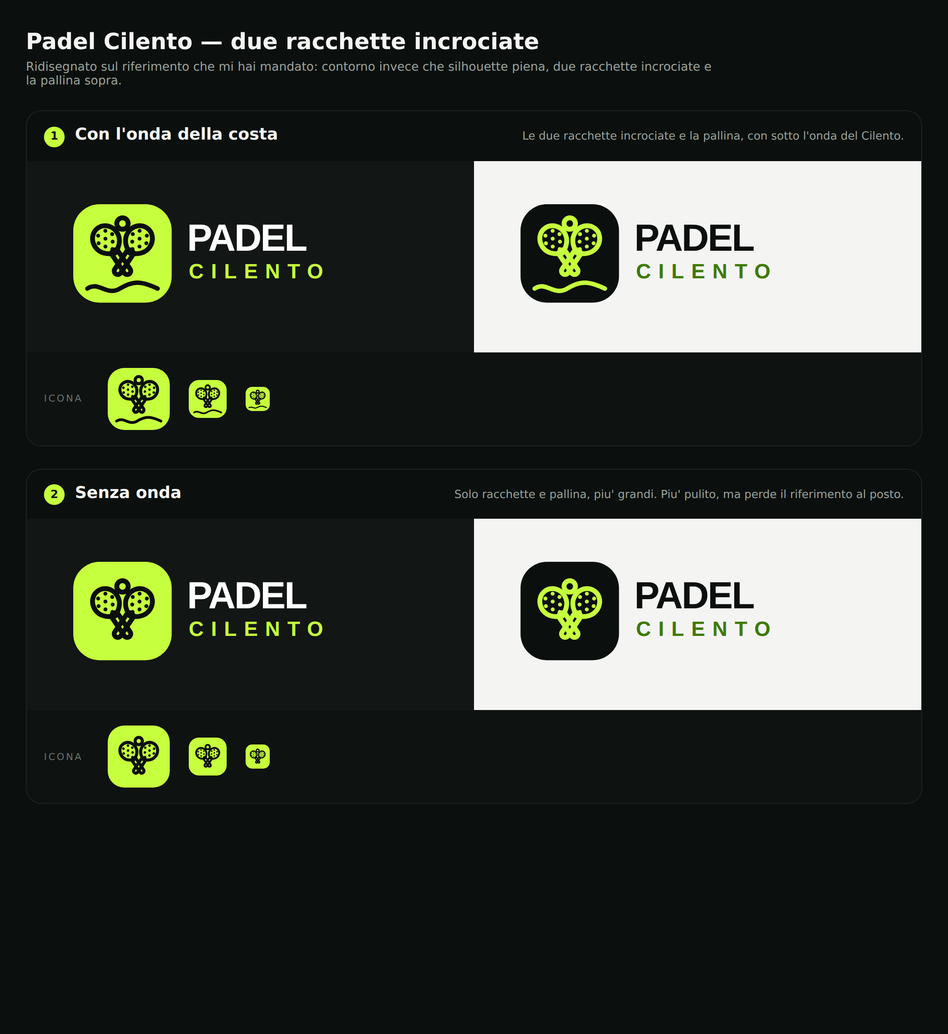
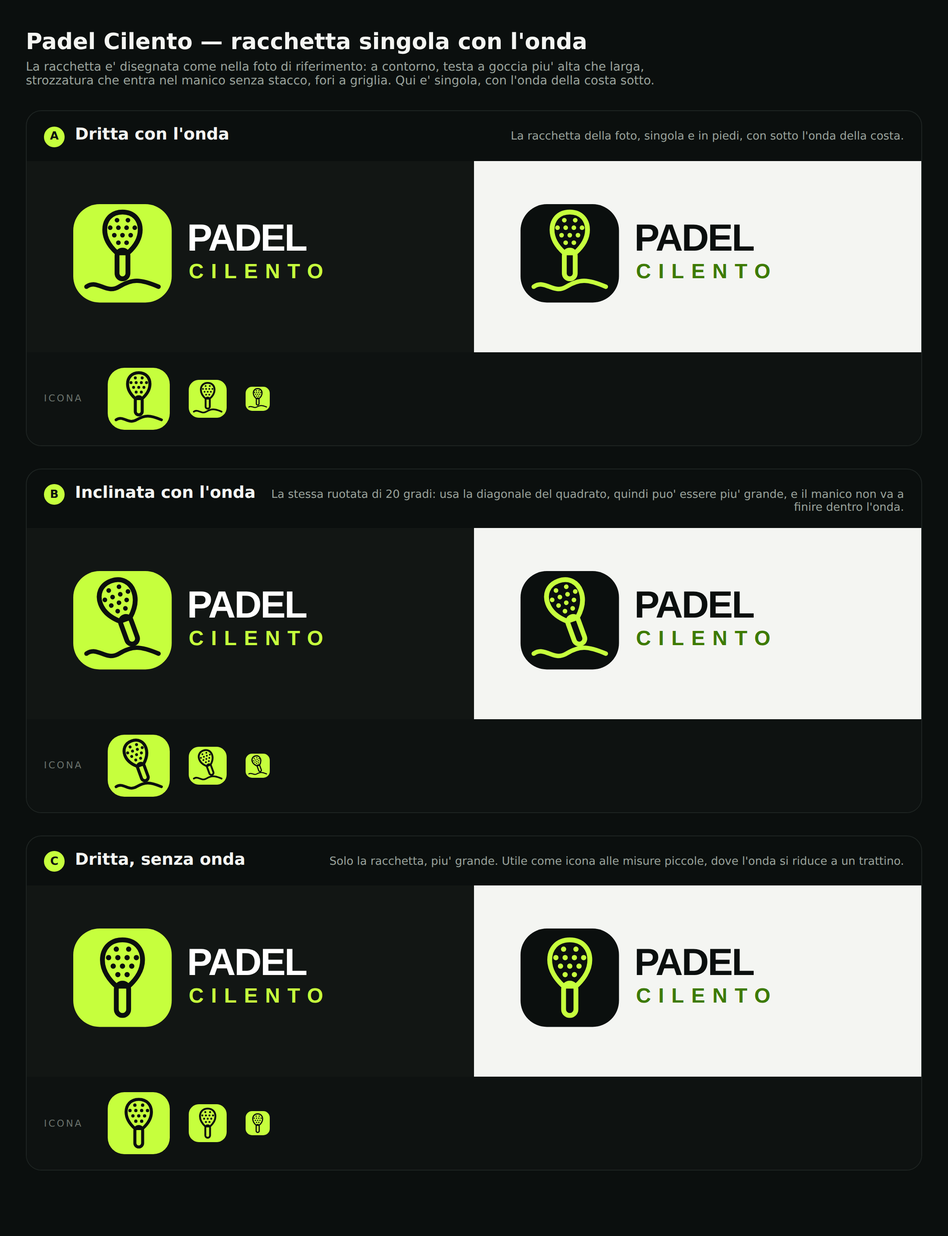
Racchetta singola con l'onda, profilo sul riferimento
Testa a goccia piu' alta che larga con la strozzatura che entra nel manico
senza stacco: con la testa tonda il segno si leggeva come una lente
d'ingrandimento. Tre inquadrature a confronto, in grande e a 72/44/28px.

diff --git a/public/marchio/racchetta.html b/public/marchio/racchetta.html
@@ -25,59 +25,85 @@
   .piccoli span { color: #6B736D; font-size: 11px; letter-spacing: 2px; text-transform: uppercase; width: 52px; }
 </style>
 
-<h1>Padel Cilento — due racchette incrociate</h1>
+<h1>Padel Cilento — racchetta singola con l'onda</h1>
 <p class="intro">
-  Ridisegnato sul riferimento che mi hai mandato: contorno invece che silhouette piena,
-  due racchette incrociate e la pallina sopra.
+  La racchetta e' disegnata come nella foto di riferimento: a contorno, testa a goccia piu' alta che
+  larga, strozzatura che entra nel manico senza stacco, fori a griglia. Qui e' singola,
+  con l'onda della costa sotto.
 </p>
 
 <div class="blocco">
   <div class="testa">
-    <span class="n">1</span>
-    <h2>Con l'onda della costa</h2>
-    <p>Le due racchette incrociate e la pallina, con sotto l'onda del Cilento.</p>
+    <span class="n">A</span>
+    <h2>Dritta con l'onda</h2>
+    <p>La racchetta della foto, singola e in piedi, con sotto l'onda della costa.</p>
   </div>
   <div class="griglia">
     <div class="cella scuro"><svg width="440" height="150" viewBox="0 0 440 150" fill="none">
-        <g transform="translate(14,14) scale(1.02)"><rect width="112" height="112" rx="30" fill="#C6FF3D"/><g transform="translate(56,68) scale(0.62)"><g transform="rotate(-34)"><path d="M0 -80 C14 -80, 24 -68, 24 -54 C24 -40, 14 -30, 0 -24 C-14 -30, -24 -40, -24 -54 C-24 -68, -14 -80, 0 -80 Z" fill="none" stroke="#0B0F0E" stroke-width="8.870967741935484" stroke-linejoin="round"/><rect x="-6.5" y="-30" width="13" height="52" rx="6.5" fill="none" stroke="#0B0F0E" stroke-width="8.870967741935484"/><circle cx="-8" cy="-68" r="3.6" fill="#0B0F0E"/><circle cx="8" cy="-68" r="3.6" fill="#0B0F0E"/><circle cx="-15" cy="-56" r="3.6" fill="#0B0F0E"/><circle cx="0" cy="-56" r="3.6" fill="#0B0F0E"/><circle cx="15" cy="-56" r="3.6" fill="#0B0F0E"/><circle cx="-8" cy="-44" r="3.6" fill="#0B0F0E"/><circle cx="8" cy="-44" r="3.6" fill="#0B0F0E"/><circle cx="0" cy="-33" r="3.6" fill="#0B0F0E"/></g><g transform="rotate(34)"><path d="M0 -80 C14 -80, 24 -68, 24 -54 C24 -40, 14 -30, 0 -24 C-14 -30, -24 -40, -24 -54 C-24 -68, -14 -80, 0 -80 Z" fill="none" stroke="#0B0F0E" stroke-width="8.870967741935484" stroke-linejoin="round"/><rect x="-6.5" y="-30" width="13" height="52" rx="6.5" fill="none" stroke="#0B0F0E" stroke-width="8.870967741935484"/><circle cx="-8" cy="-68" r="3.6" fill="#0B0F0E"/><circle cx="8" cy="-68" r="3.6" fill="#0B0F0E"/><circle cx="-15" cy="-56" r="3.6" fill="#0B0F0E"/><circle cx="0" cy="-56" r="3.6" fill="#0B0F0E"/><circle cx="15" cy="-56" r="3.6" fill="#0B0F0E"/><circle cx="-8" cy="-44" r="3.6" fill="#0B0F0E"/><circle cx="8" cy="-44" r="3.6" fill="#0B0F0E"/><circle cx="0" cy="-33" r="3.6" fill="#0B0F0E"/></g></g><circle cx="56" cy="22" r="6.5" fill="none" stroke="#0B0F0E" stroke-width="5.5"/><path d="M16 96 C29 87, 38 105, 53 96 S77 87, 96 96" stroke="#0B0F0E" stroke-width="5" stroke-linecap="round" fill="none"/></g>
+        <g transform="translate(14,14) scale(1.02)"><rect width="112" height="112" rx="30" fill="#C6FF3D"/><g transform="translate(56.00,71.04) scale(0.776)"><path d="M0 -80 C17 -80, 26 -68, 26 -54 C26 -40, 17 -28, 8 -20 L-8 -20 C-17 -28, -26 -40, -26 -54 C-26 -68, -17 -80, 0 -80 Z" fill="none" stroke="#0B0F0E" stroke-width="7.092105263157895" stroke-linejoin="round"/><rect x="-8" y="-24" width="16" height="42" rx="8" fill="none" stroke="#0B0F0E" stroke-width="7.092105263157895"/><circle cx="-8" cy="-68" r="3.4" fill="#0B0F0E"/><circle cx="8" cy="-68" r="3.4" fill="#0B0F0E"/><circle cx="-18" cy="-57" r="3.4" fill="#0B0F0E"/><circle cx="-6" cy="-57" r="3.4" fill="#0B0F0E"/><circle cx="6" cy="-57" r="3.4" fill="#0B0F0E"/><circle cx="18" cy="-57" r="3.4" fill="#0B0F0E"/><circle cx="-12" cy="-46" r="3.4" fill="#0B0F0E"/><circle cx="0" cy="-46" r="3.4" fill="#0B0F0E"/><circle cx="12" cy="-46" r="3.4" fill="#0B0F0E"/><circle cx="-6" cy="-35" r="3.4" fill="#0B0F0E"/><circle cx="6" cy="-35" r="3.4" fill="#0B0F0E"/></g><path d="M15 94 C28 85, 37 103, 52 94 S76 85, 97 94" stroke="#0B0F0E" stroke-width="5" stroke-linecap="round" fill="none"/></g>
         <text x="146" y="68" font-family="Space Grotesk,sans-serif" font-size="44" font-weight="700"
               letter-spacing="-1.5" fill="#fff">PADEL</text>
         <text x="148" y="100" font-family="Space Grotesk,sans-serif" font-size="24" font-weight="600"
               letter-spacing="8.5" fill="#C6FF3D">CILENTO</text>
       </svg></div>
     <div class="cella chiaro"><svg width="440" height="150" viewBox="0 0 440 150" fill="none">
-        <g transform="translate(14,14) scale(1.02)"><rect width="112" height="112" rx="30" fill="#0B0F0E"/><g transform="translate(56,68) scale(0.62)"><g transform="rotate(-34)"><path d="M0 -80 C14 -80, 24 -68, 24 -54 C24 -40, 14 -30, 0 -24 C-14 -30, -24 -40, -24 -54 C-24 -68, -14 -80, 0 -80 Z" fill="none" stroke="#C6FF3D" stroke-width="8.870967741935484" stroke-linejoin="round"/><rect x="-6.5" y="-30" width="13" height="52" rx="6.5" fill="none" stroke="#C6FF3D" stroke-width="8.870967741935484"/><circle cx="-8" cy="-68" r="3.6" fill="#C6FF3D"/><circle cx="8" cy="-68" r="3.6" fill="#C6FF3D"/><circle cx="-15" cy="-56" r="3.6" fill="#C6FF3D"/><circle cx="0" cy="-56" r="3.6" fill="#C6FF3D"/><circle cx="15" cy="-56" r="3.6" fill="#C6FF3D"/><circle cx="-8" cy="-44" r="3.6" fill="#C6FF3D"/><circle cx="8" cy="-44" r="3.6" fill="#C6FF3D"/><circle cx="0" cy="-33" r="3.6" fill="#C6FF3D"/></g><g transform="rotate(34)"><path d="M0 -80 C14 -80, 24 -68, 24 -54 C24 -40, 14 -30, 0 -24 C-14 -30, -24 -40, -24 -54 C-24 -68, -14 -80, 0 -80 Z" fill="none" stroke="#C6FF3D" stroke-width="8.870967741935484" stroke-linejoin="round"/><rect x="-6.5" y="-30" width="13" height="52" rx="6.5" fill="none" stroke="#C6FF3D" stroke-width="8.870967741935484"/><circle cx="-8" cy="-68" r="3.6" fill="#C6FF3D"/><circle cx="8" cy="-68" r="3.6" fill="#C6FF3D"/><circle cx="-15" cy="-56" r="3.6" fill="#C6FF3D"/><circle cx="0" cy="-56" r="3.6" fill="#C6FF3D"/><circle cx="15" cy="-56" r="3.6" fill="#C6FF3D"/><circle cx="-8" cy="-44" r="3.6" fill="#C6FF3D"/><circle cx="8" cy="-44" r="3.6" fill="#C6FF3D"/><circle cx="0" cy="-33" r="3.6" fill="#C6FF3D"/></g></g><circle cx="56" cy="22" r="6.5" fill="none" stroke="#C6FF3D" stroke-width="5.5"/><path d="M16 96 C29 87, 38 105, 53 96 S77 87, 96 96" stroke="#C6FF3D" stroke-width="5" stroke-linecap="round" fill="none"/></g>
+        <g transform="translate(14,14) scale(1.02)"><rect width="112" height="112" rx="30" fill="#0B0F0E"/><g transform="translate(56.00,71.04) scale(0.776)"><path d="M0 -80 C17 -80, 26 -68, 26 -54 C26 -40, 17 -28, 8 -20 L-8 -20 C-17 -28, -26 -40, -26 -54 C-26 -68, -17 -80, 0 -80 Z" fill="none" stroke="#C6FF3D" stroke-width="7.092105263157895" stroke-linejoin="round"/><rect x="-8" y="-24" width="16" height="42" rx="8" fill="none" stroke="#C6FF3D" stroke-width="7.092105263157895"/><circle cx="-8" cy="-68" r="3.4" fill="#C6FF3D"/><circle cx="8" cy="-68" r="3.4" fill="#C6FF3D"/><circle cx="-18" cy="-57" r="3.4" fill="#C6FF3D"/><circle cx="-6" cy="-57" r="3.4" fill="#C6FF3D"/><circle cx="6" cy="-57" r="3.4" fill="#C6FF3D"/><circle cx="18" cy="-57" r="3.4" fill="#C6FF3D"/><circle cx="-12" cy="-46" r="3.4" fill="#C6FF3D"/><circle cx="0" cy="-46" r="3.4" fill="#C6FF3D"/><circle cx="12" cy="-46" r="3.4" fill="#C6FF3D"/><circle cx="-6" cy="-35" r="3.4" fill="#C6FF3D"/><circle cx="6" cy="-35" r="3.4" fill="#C6FF3D"/></g><path d="M15 94 C28 85, 37 103, 52 94 S76 85, 97 94" stroke="#C6FF3D" stroke-width="5" stroke-linecap="round" fill="none"/></g>
         <text x="146" y="68" font-family="Space Grotesk,sans-serif" font-size="44" font-weight="700"
               letter-spacing="-1.5" fill="#0B0F0E">PADEL</text>
         <text x="148" y="100" font-family="Space Grotesk,sans-serif" font-size="24" font-weight="600"
               letter-spacing="8.5" fill="#3D7A00">CILENTO</text>
       </svg></div>
   </div>
-  <div class="piccoli"><span>icona</span><svg width="72" height="72" viewBox="0 0 112 112"><rect width="112" height="112" rx="30" fill="#C6FF3D"/><g transform="translate(56,68) scale(0.62)"><g transform="rotate(-34)"><path d="M0 -80 C14 -80, 24 -68, 24 -54 C24 -40, 14 -30, 0 -24 C-14 -30, -24 -40, -24 -54 C-24 -68, -14 -80, 0 -80 Z" fill="none" stroke="#0B0F0E" stroke-width="8.870967741935484" stroke-linejoin="round"/><rect x="-6.5" y="-30" width="13" height="52" rx="6.5" fill="none" stroke="#0B0F0E" stroke-width="8.870967741935484"/><circle cx="-8" cy="-68" r="3.6" fill="#0B0F0E"/><circle cx="8" cy="-68" r="3.6" fill="#0B0F0E"/><circle cx="-15" cy="-56" r="3.6" fill="#0B0F0E"/><circle cx="0" cy="-56" r="3.6" fill="#0B0F0E"/><circle cx="15" cy="-56" r="3.6" fill="#0B0F0E"/><circle cx="-8" cy="-44" r="3.6" fill="#0B0F0E"/><circle cx="8" cy="-44" r="3.6" fill="#0B0F0E"/><circle cx="0" cy="-33" r="3.6" fill="#0B0F0E"/></g><g transform="rotate(34)"><path d="M0 -80 C14 -80, 24 -68, 24 -54 C24 -40, 14 -30, 0 -24 C-14 -30, -24 -40, -24 -54 C-24 -68, -14 -80, 0 -80 Z" fill="none" stroke="#0B0F0E" stroke-width="8.870967741935484" stroke-linejoin="round"/><rect x="-6.5" y="-30" width="13" height="52" rx="6.5" fill="none" stroke="#0B0F0E" stroke-width="8.870967741935484"/><circle cx="-8" cy="-68" r="3.6" fill="#0B0F0E"/><circle cx="8" cy="-68" r="3.6" fill="#0B0F0E"/><circle cx="-15" cy="-56" r="3.6" fill="#0B0F0E"/><circle cx="0" cy="-56" r="3.6" fill="#0B0F0E"/><circle cx="15" cy="-56" r="3.6" fill="#0B0F0E"/><circle cx="-8" cy="-44" r="3.6" fill="#0B0F0E"/><circle cx="8" cy="-44" r="3.6" fill="#0B0F0E"/><circle cx="0" cy="-33" r="3.6" fill="#0B0F0E"/></g></g><circle cx="56" cy="22" r="6.5" fill="none" stroke="#0B0F0E" stroke-width="5.5"/><path d="M16 96 C29 87, 38 105, 53 96 S77 87, 96 96" stroke="#0B0F0E" stroke-width="5" stroke-linecap="round" fill="none"/></svg><svg width="44" height="44" viewBox="0 0 112 112"><rect width="112" height="112" rx="30" fill="#C6FF3D"/><g transform="translate(56,68) scale(0.62)"><g transform="rotate(-34)"><path d="M0 -80 C14 -80, 24 -68, 24 -54 C24 -40, 14 -30, 0 -24 C-14 -30, -24 -40, -24 -54 C-24 -68, -14 -80, 0 -80 Z" fill="none" stroke="#0B0F0E" stroke-width="8.870967741935484" stroke-linejoin="round"/><rect x="-6.5" y="-30" width="13" height="52" rx="6.5" fill="none" stroke="#0B0F0E" stroke-width="8.870967741935484"/><circle cx="-8" cy="-68" r="3.6" fill="#0B0F0E"/><circle cx="8" cy="-68" r="3.6" fill="#0B0F0E"/><circle cx="-15" cy="-56" r="3.6" fill="#0B0F0E"/><circle cx="0" cy="-56" r="3.6" fill="#0B0F0E"/><circle cx="15" cy="-56" r="3.6" fill="#0B0F0E"/><circle cx="-8" cy="-44" r="3.6" fill="#0B0F0E"/><circle cx="8" cy="-44" r="3.6" fill="#0B0F0E"/><circle cx="0" cy="-33" r="3.6" fill="#0B0F0E"/></g><g transform="rotate(34)"><path d="M0 -80 C14 -80, 24 -68, 24 -54 C24 -40, 14 -30, 0 -24 C-14 -30, -24 -40, -24 -54 C-24 -68, -14 -80, 0 -80 Z" fill="none" stroke="#0B0F0E" stroke-width="8.870967741935484" stroke-linejoin="round"/><rect x="-6.5" y="-30" width="13" height="52" rx="6.5" fill="none" stroke="#0B0F0E" stroke-width="8.870967741935484"/><circle cx="-8" cy="-68" r="3.6" fill="#0B0F0E"/><circle cx="8" cy="-68" r="3.6" fill="#0B0F0E"/><circle cx="-15" cy="-56" r="3.6" fill="#0B0F0E"/><circle cx="0" cy="-56" r="3.6" fill="#0B0F0E"/><circle cx="15" cy="-56" r="3.6" fill="#0B0F0E"/><circle cx="-8" cy="-44" r="3.6" fill="#0B0F0E"/><circle cx="8" cy="-44" r="3.6" fill="#0B0F0E"/><circle cx="0" cy="-33" r="3.6" fill="#0B0F0E"/></g></g><circle cx="56" cy="22" r="6.5" fill="none" stroke="#0B0F0E" stroke-width="5.5"/><path d="M16 96 C29 87, 38 105, 53 96 S77 87, 96 96" stroke="#0B0F0E" stroke-width="5" stroke-linecap="round" fill="none"/></svg><svg width="28" height="28" viewBox="0 0 112 112"><rect width="112" height="112" rx="30" fill="#C6FF3D"/><g transform="translate(56,68) scale(0.62)"><g transform="rotate(-34)"><path d="M0 -80 C14 -80, 24 -68, 24 -54 C24 -40, 14 -30, 0 -24 C-14 -30, -24 -40, -24 -54 C-24 -68, -14 -80, 0 -80 Z" fill="none" stroke="#0B0F0E" stroke-width="8.870967741935484" stroke-linejoin="round"/><rect x="-6.5" y="-30" width="13" height="52" rx="6.5" fill="none" stroke="#0B0F0E" stroke-width="8.870967741935484"/><circle cx="-8" cy="-68" r="3.6" fill="#0B0F0E"/><circle cx="8" cy="-68" r="3.6" fill="#0B0F0E"/><circle cx="-15" cy="-56" r="3.6" fill="#0B0F0E"/><circle cx="0" cy="-56" r="3.6" fill="#0B0F0E"/><circle cx="15" cy="-56" r="3.6" fill="#0B0F0E"/><circle cx="-8" cy="-44" r="3.6" fill="#0B0F0E"/><circle cx="8" cy="-44" r="3.6" fill="#0B0F0E"/><circle cx="0" cy="-33" r="3.6" fill="#0B0F0E"/></g><g transform="rotate(34)"><path d="M0 -80 C14 -80, 24 -68, 24 -54 C24 -40, 14 -30, 0 -24 C-14 -30, -24 -40, -24 -54 C-24 -68, -14 -80, 0 -80 Z" fill="none" stroke="#0B0F0E" stroke-width="8.870967741935484" stroke-linejoin="round"/><rect x="-6.5" y="-30" width="13" height="52" rx="6.5" fill="none" stroke="#0B0F0E" stroke-width="8.870967741935484"/><circle cx="-8" cy="-68" r="3.6" fill="#0B0F0E"/><circle cx="8" cy="-68" r="3.6" fill="#0B0F0E"/><circle cx="-15" cy="-56" r="3.6" fill="#0B0F0E"/><circle cx="0" cy="-56" r="3.6" fill="#0B0F0E"/><circle cx="15" cy="-56" r="3.6" fill="#0B0F0E"/><circle cx="-8" cy="-44" r="3.6" fill="#0B0F0E"/><circle cx="8" cy="-44" r="3.6" fill="#0B0F0E"/><circle cx="0" cy="-33" r="3.6" fill="#0B0F0E"/></g></g><circle cx="56" cy="22" r="6.5" fill="none" stroke="#0B0F0E" stroke-width="5.5"/><path d="M16 96 C29 87, 38 105, 53 96 S77 87, 96 96" stroke="#0B0F0E" stroke-width="5" stroke-linecap="round" fill="none"/></svg></div>
+  <div class="piccoli"><span>icona</span><svg width="72" height="72" viewBox="0 0 112 112"><rect width="112" height="112" rx="30" fill="#C6FF3D"/><g transform="translate(56.00,71.04) scale(0.776)"><path d="M0 -80 C17 -80, 26 -68, 26 -54 C26 -40, 17 -28, 8 -20 L-8 -20 C-17 -28, -26 -40, -26 -54 C-26 -68, -17 -80, 0 -80 Z" fill="none" stroke="#0B0F0E" stroke-width="7.092105263157895" stroke-linejoin="round"/><rect x="-8" y="-24" width="16" height="42" rx="8" fill="none" stroke="#0B0F0E" stroke-width="7.092105263157895"/><circle cx="-8" cy="-68" r="3.4" fill="#0B0F0E"/><circle cx="8" cy="-68" r="3.4" fill="#0B0F0E"/><circle cx="-18" cy="-57" r="3.4" fill="#0B0F0E"/><circle cx="-6" cy="-57" r="3.4" fill="#0B0F0E"/><circle cx="6" cy="-57" r="3.4" fill="#0B0F0E"/><circle cx="18" cy="-57" r="3.4" fill="#0B0F0E"/><circle cx="-12" cy="-46" r="3.4" fill="#0B0F0E"/><circle cx="0" cy="-46" r="3.4" fill="#0B0F0E"/><circle cx="12" cy="-46" r="3.4" fill="#0B0F0E"/><circle cx="-6" cy="-35" r="3.4" fill="#0B0F0E"/><circle cx="6" cy="-35" r="3.4" fill="#0B0F0E"/></g><path d="M15 94 C28 85, 37 103, 52 94 S76 85, 97 94" stroke="#0B0F0E" stroke-width="5" stroke-linecap="round" fill="none"/></svg><svg width="44" height="44" viewBox="0 0 112 112"><rect width="112" height="112" rx="30" fill="#C6FF3D"/><g transform="translate(56.00,71.04) scale(0.776)"><path d="M0 -80 C17 -80, 26 -68, 26 -54 C26 -40, 17 -28, 8 -20 L-8 -20 C-17 -28, -26 -40, -26 -54 C-26 -68, -17 -80, 0 -80 Z" fill="none" stroke="#0B0F0E" stroke-width="7.092105263157895" stroke-linejoin="round"/><rect x="-8" y="-24" width="16" height="42" rx="8" fill="none" stroke="#0B0F0E" stroke-width="7.092105263157895"/><circle cx="-8" cy="-68" r="3.4" fill="#0B0F0E"/><circle cx="8" cy="-68" r="3.4" fill="#0B0F0E"/><circle cx="-18" cy="-57" r="3.4" fill="#0B0F0E"/><circle cx="-6" cy="-57" r="3.4" fill="#0B0F0E"/><circle cx="6" cy="-57" r="3.4" fill="#0B0F0E"/><circle cx="18" cy="-57" r="3.4" fill="#0B0F0E"/><circle cx="-12" cy="-46" r="3.4" fill="#0B0F0E"/><circle cx="0" cy="-46" r="3.4" fill="#0B0F0E"/><circle cx="12" cy="-46" r="3.4" fill="#0B0F0E"/><circle cx="-6" cy="-35" r="3.4" fill="#0B0F0E"/><circle cx="6" cy="-35" r="3.4" fill="#0B0F0E"/></g><path d="M15 94 C28 85, 37 103, 52 94 S76 85, 97 94" stroke="#0B0F0E" stroke-width="5" stroke-linecap="round" fill="none"/></svg><svg width="28" height="28" viewBox="0 0 112 112"><rect width="112" height="112" rx="30" fill="#C6FF3D"/><g transform="translate(56.00,71.04) scale(0.776)"><path d="M0 -80 C17 -80, 26 -68, 26 -54 C26 -40, 17 -28, 8 -20 L-8 -20 C-17 -28, -26 -40, -26 -54 C-26 -68, -17 -80, 0 -80 Z" fill="none" stroke="#0B0F0E" stroke-width="7.092105263157895" stroke-linejoin="round"/><rect x="-8" y="-24" width="16" height="42" rx="8" fill="none" stroke="#0B0F0E" stroke-width="7.092105263157895"/><circle cx="-8" cy="-68" r="3.4" fill="#0B0F0E"/><circle cx="8" cy="-68" r="3.4" fill="#0B0F0E"/><circle cx="-18" cy="-57" r="3.4" fill="#0B0F0E"/><circle cx="-6" cy="-57" r="3.4" fill="#0B0F0E"/><circle cx="6" cy="-57" r="3.4" fill="#0B0F0E"/><circle cx="18" cy="-57" r="3.4" fill="#0B0F0E"/><circle cx="-12" cy="-46" r="3.4" fill="#0B0F0E"/><circle cx="0" cy="-46" r="3.4" fill="#0B0F0E"/><circle cx="12" cy="-46" r="3.4" fill="#0B0F0E"/><circle cx="-6" cy="-35" r="3.4" fill="#0B0F0E"/><circle cx="6" cy="-35" r="3.4" fill="#0B0F0E"/></g><path d="M15 94 C28 85, 37 103, 52 94 S76 85, 97 94" stroke="#0B0F0E" stroke-width="5" stroke-linecap="round" fill="none"/></svg></div>
 </div>
 
 <div class="blocco">
   <div class="testa">
-    <span class="n">2</span>
-    <h2>Senza onda</h2>
-    <p>Solo racchette e pallina, piu' grandi. Piu' pulito, ma perde il riferimento al posto.</p>
+    <span class="n">B</span>
+    <h2>Inclinata con l'onda</h2>
+    <p>La stessa ruotata di 20 gradi: usa la diagonale del quadrato, quindi puo' essere piu' grande, e il manico non va a finire dentro l'onda.</p>
   </div>
   <div class="griglia">
     <div class="cella scuro"><svg width="440" height="150" viewBox="0 0 440 150" fill="none">
-        <g transform="translate(14,14) scale(1.02)"><rect width="112" height="112" rx="30" fill="#C6FF3D"/><g transform="translate(56,74) scale(0.62)"><g transform="rotate(-34)"><path d="M0 -80 C14 -80, 24 -68, 24 -54 C24 -40, 14 -30, 0 -24 C-14 -30, -24 -40, -24 -54 C-24 -68, -14 -80, 0 -80 Z" fill="none" stroke="#0B0F0E" stroke-width="8.870967741935484" stroke-linejoin="round"/><rect x="-6.5" y="-30" width="13" height="52" rx="6.5" fill="none" stroke="#0B0F0E" stroke-width="8.870967741935484"/><circle cx="-8" cy="-68" r="3.6" fill="#0B0F0E"/><circle cx="8" cy="-68" r="3.6" fill="#0B0F0E"/><circle cx="-15" cy="-56" r="3.6" fill="#0B0F0E"/><circle cx="0" cy="-56" r="3.6" fill="#0B0F0E"/><circle cx="15" cy="-56" r="3.6" fill="#0B0F0E"/><circle cx="-8" cy="-44" r="3.6" fill="#0B0F0E"/><circle cx="8" cy="-44" r="3.6" fill="#0B0F0E"/><circle cx="0" cy="-33" r="3.6" fill="#0B0F0E"/></g><g transform="rotate(34)"><path d="M0 -80 C14 -80, 24 -68, 24 -54 C24 -40, 14 -30, 0 -24 C-14 -30, -24 -40, -24 -54 C-24 -68, -14 -80, 0 -80 Z" fill="none" stroke="#0B0F0E" stroke-width="8.870967741935484" stroke-linejoin="round"/><rect x="-6.5" y="-30" width="13" height="52" rx="6.5" fill="none" stroke="#0B0F0E" stroke-width="8.870967741935484"/><circle cx="-8" cy="-68" r="3.6" fill="#0B0F0E"/><circle cx="8" cy="-68" r="3.6" fill="#0B0F0E"/><circle cx="-15" cy="-56" r="3.6" fill="#0B0F0E"/><circle cx="0" cy="-56" r="3.6" fill="#0B0F0E"/><circle cx="15" cy="-56" r="3.6" fill="#0B0F0E"/><circle cx="-8" cy="-44" r="3.6" fill="#0B0F0E"/><circle cx="8" cy="-44" r="3.6" fill="#0B0F0E"/><circle cx="0" cy="-33" r="3.6" fill="#0B0F0E"/></g></g><circle cx="56" cy="28" r="6.5" fill="none" stroke="#0B0F0E" stroke-width="5.5"/></g>
+        <g transform="translate(14,14) scale(1.02)"><rect width="112" height="112" rx="30" fill="#C6FF3D"/><g transform="translate(56.00,71.04) scale(0.776) rotate(-20 0.0 -31.0)"><path d="M0 -80 C17 -80, 26 -68, 26 -54 C26 -40, 17 -28, 8 -20 L-8 -20 C-17 -28, -26 -40, -26 -54 C-26 -68, -17 -80, 0 -80 Z" fill="none" stroke="#0B0F0E" stroke-width="7.092105263157895" stroke-linejoin="round"/><rect x="-8" y="-24" width="16" height="42" rx="8" fill="none" stroke="#0B0F0E" stroke-width="7.092105263157895"/><circle cx="-8" cy="-68" r="3.4" fill="#0B0F0E"/><circle cx="8" cy="-68" r="3.4" fill="#0B0F0E"/><circle cx="-18" cy="-57" r="3.4" fill="#0B0F0E"/><circle cx="-6" cy="-57" r="3.4" fill="#0B0F0E"/><circle cx="6" cy="-57" r="3.4" fill="#0B0F0E"/><circle cx="18" cy="-57" r="3.4" fill="#0B0F0E"/><circle cx="-12" cy="-46" r="3.4" fill="#0B0F0E"/><circle cx="0" cy="-46" r="3.4" fill="#0B0F0E"/><circle cx="12" cy="-46" r="3.4" fill="#0B0F0E"/><circle cx="-6" cy="-35" r="3.4" fill="#0B0F0E"/><circle cx="6" cy="-35" r="3.4" fill="#0B0F0E"/></g><path d="M15 94 C28 85, 37 103, 52 94 S76 85, 97 94" stroke="#0B0F0E" stroke-width="5" stroke-linecap="round" fill="none"/></g>
         <text x="146" y="68" font-family="Space Grotesk,sans-serif" font-size="44" font-weight="700"
               letter-spacing="-1.5" fill="#fff">PADEL</text>
         <text x="148" y="100" font-family="Space Grotesk,sans-serif" font-size="24" font-weight="600"
               letter-spacing="8.5" fill="#C6FF3D">CILENTO</text>
       </svg></div>
     <div class="cella chiaro"><svg width="440" height="150" viewBox="0 0 440 150" fill="none">
-        <g transform="translate(14,14) scale(1.02)"><rect width="112" height="112" rx="30" fill="#0B0F0E"/><g transform="translate(56,74) scale(0.62)"><g transform="rotate(-34)"><path d="M0 -80 C14 -80, 24 -68, 24 -54 C24 -40, 14 -30, 0 -24 C-14 -30, -24 -40, -24 -54 C-24 -68, -14 -80, 0 -80 Z" fill="none" stroke="#C6FF3D" stroke-width="8.870967741935484" stroke-linejoin="round"/><rect x="-6.5" y="-30" width="13" height="52" rx="6.5" fill="none" stroke="#C6FF3D" stroke-width="8.870967741935484"/><circle cx="-8" cy="-68" r="3.6" fill="#C6FF3D"/><circle cx="8" cy="-68" r="3.6" fill="#C6FF3D"/><circle cx="-15" cy="-56" r="3.6" fill="#C6FF3D"/><circle cx="0" cy="-56" r="3.6" fill="#C6FF3D"/><circle cx="15" cy="-56" r="3.6" fill="#C6FF3D"/><circle cx="-8" cy="-44" r="3.6" fill="#C6FF3D"/><circle cx="8" cy="-44" r="3.6" fill="#C6FF3D"/><circle cx="0" cy="-33" r="3.6" fill="#C6FF3D"/></g><g transform="rotate(34)"><path d="M0 -80 C14 -80, 24 -68, 24 -54 C24 -40, 14 -30, 0 -24 C-14 -30, -24 -40, -24 -54 C-24 -68, -14 -80, 0 -80 Z" fill="none" stroke="#C6FF3D" stroke-width="8.870967741935484" stroke-linejoin="round"/><rect x="-6.5" y="-30" width="13" height="52" rx="6.5" fill="none" stroke="#C6FF3D" stroke-width="8.870967741935484"/><circle cx="-8" cy="-68" r="3.6" fill="#C6FF3D"/><circle cx="8" cy="-68" r="3.6" fill="#C6FF3D"/><circle cx="-15" cy="-56" r="3.6" fill="#C6FF3D"/><circle cx="0" cy="-56" r="3.6" fill="#C6FF3D"/><circle cx="15" cy="-56" r="3.6" fill="#C6FF3D"/><circle cx="-8" cy="-44" r="3.6" fill="#C6FF3D"/><circle cx="8" cy="-44" r="3.6" fill="#C6FF3D"/><circle cx="0" cy="-33" r="3.6" fill="#C6FF3D"/></g></g><circle cx="56" cy="28" r="6.5" fill="none" stroke="#C6FF3D" stroke-width="5.5"/></g>
+        <g transform="translate(14,14) scale(1.02)"><rect width="112" height="112" rx="30" fill="#0B0F0E"/><g transform="translate(56.00,71.04) scale(0.776) rotate(-20 0.0 -31.0)"><path d="M0 -80 C17 -80, 26 -68, 26 -54 C26 -40, 17 -28, 8 -20 L-8 -20 C-17 -28, -26 -40, -26 -54 C-26 -68, -17 -80, 0 -80 Z" fill="none" stroke="#C6FF3D" stroke-width="7.092105263157895" stroke-linejoin="round"/><rect x="-8" y="-24" width="16" height="42" rx="8" fill="none" stroke="#C6FF3D" stroke-width="7.092105263157895"/><circle cx="-8" cy="-68" r="3.4" fill="#C6FF3D"/><circle cx="8" cy="-68" r="3.4" fill="#C6FF3D"/><circle cx="-18" cy="-57" r="3.4" fill="#C6FF3D"/><circle cx="-6" cy="-57" r="3.4" fill="#C6FF3D"/><circle cx="6" cy="-57" r="3.4" fill="#C6FF3D"/><circle cx="18" cy="-57" r="3.4" fill="#C6FF3D"/><circle cx="-12" cy="-46" r="3.4" fill="#C6FF3D"/><circle cx="0" cy="-46" r="3.4" fill="#C6FF3D"/><circle cx="12" cy="-46" r="3.4" fill="#C6FF3D"/><circle cx="-6" cy="-35" r="3.4" fill="#C6FF3D"/><circle cx="6" cy="-35" r="3.4" fill="#C6FF3D"/></g><path d="M15 94 C28 85, 37 103, 52 94 S76 85, 97 94" stroke="#C6FF3D" stroke-width="5" stroke-linecap="round" fill="none"/></g>
         <text x="146" y="68" font-family="Space Grotesk,sans-serif" font-size="44" font-weight="700"
               letter-spacing="-1.5" fill="#0B0F0E">PADEL</text>
         <text x="148" y="100" font-family="Space Grotesk,sans-serif" font-size="24" font-weight="600"
               letter-spacing="8.5" fill="#3D7A00">CILENTO</text>
       </svg></div>
   </div>
-  <div class="piccoli"><span>icona</span><svg width="72" height="72" viewBox="0 0 112 112"><rect width="112" height="112" rx="30" fill="#C6FF3D"/><g transform="translate(56,74) scale(0.62)"><g transform="rotate(-34)"><path d="M0 -80 C14 -80, 24 -68, 24 -54 C24 -40, 14 -30, 0 -24 C-14 -30, -24 -40, -24 -54 C-24 -68, -14 -80, 0 -80 Z" fill="none" stroke="#0B0F0E" stroke-width="8.870967741935484" stroke-linejoin="round"/><rect x="-6.5" y="-30" width="13" height="52" rx="6.5" fill="none" stroke="#0B0F0E" stroke-width="8.870967741935484"/><circle cx="-8" cy="-68" r="3.6" fill="#0B0F0E"/><circle cx="8" cy="-68" r="3.6" fill="#0B0F0E"/><circle cx="-15" cy="-56" r="3.6" fill="#0B0F0E"/><circle cx="0" cy="-56" r="3.6" fill="#0B0F0E"/><circle cx="15" cy="-56" r="3.6" fill="#0B0F0E"/><circle cx="-8" cy="-44" r="3.6" fill="#0B0F0E"/><circle cx="8" cy="-44" r="3.6" fill="#0B0F0E"/><circle cx="0" cy="-33" r="3.6" fill="#0B0F0E"/></g><g transform="rotate(34)"><path d="M0 -80 C14 -80, 24 -68, 24 -54 C24 -40, 14 -30, 0 -24 C-14 -30, -24 -40, -24 -54 C-24 -68, -14 -80, 0 -80 Z" fill="none" stroke="#0B0F0E" stroke-width="8.870967741935484" stroke-linejoin="round"/><rect x="-6.5" y="-30" width="13" height="52" rx="6.5" fill="none" stroke="#0B0F0E" stroke-width="8.870967741935484"/><circle cx="-8" cy="-68" r="3.6" fill="#0B0F0E"/><circle cx="8" cy="-68" r="3.6" fill="#0B0F0E"/><circle cx="-15" cy="-56" r="3.6" fill="#0B0F0E"/><circle cx="0" cy="-56" r="3.6" fill="#0B0F0E"/><circle cx="15" cy="-56" r="3.6" fill="#0B0F0E"/><circle cx="-8" cy="-44" r="3.6" fill="#0B0F0E"/><circle cx="8" cy="-44" r="3.6" fill="#0B0F0E"/><circle cx="0" cy="-33" r="3.6" fill="#0B0F0E"/></g></g><circle cx="56" cy="28" r="6.5" fill="none" stroke="#0B0F0E" stroke-width="5.5"/></svg><svg width="44" height="44" viewBox="0 0 112 112"><rect width="112" height="112" rx="30" fill="#C6FF3D"/><g transform="translate(56,74) scale(0.62)"><g transform="rotate(-34)"><path d="M0 -80 C14 -80, 24 -68, 24 -54 C24 -40, 14 -30, 0 -24 C-14 -30, -24 -40, -24 -54 C-24 -68, -14 -80, 0 -80 Z" fill="none" stroke="#0B0F0E" stroke-width="8.870967741935484" stroke-linejoin="round"/><rect x="-6.5" y="-30" width="13" height="52" rx="6.5" fill="none" stroke="#0B0F0E" stroke-width="8.870967741935484"/><circle cx="-8" cy="-68" r="3.6" fill="#0B0F0E"/><circle cx="8" cy="-68" r="3.6" fill="#0B0F0E"/><circle cx="-15" cy="-56" r="3.6" fill="#0B0F0E"/><circle cx="0" cy="-56" r="3.6" fill="#0B0F0E"/><circle cx="15" cy="-56" r="3.6" fill="#0B0F0E"/><circle cx="-8" cy="-44" r="3.6" fill="#0B0F0E"/><circle cx="8" cy="-44" r="3.6" fill="#0B0F0E"/><circle cx="0" cy="-33" r="3.6" fill="#0B0F0E"/></g><g transform="rotate(34)"><path d="M0 -80 C14 -80, 24 -68, 24 -54 C24 -40, 14 -30, 0 -24 C-14 -30, -24 -40, -24 -54 C-24 -68, -14 -80, 0 -80 Z" fill="none" stroke="#0B0F0E" stroke-width="8.870967741935484" stroke-linejoin="round"/><rect x="-6.5" y="-30" width="13" height="52" rx="6.5" fill="none" stroke="#0B0F0E" stroke-width="8.870967741935484"/><circle cx="-8" cy="-68" r="3.6" fill="#0B0F0E"/><circle cx="8" cy="-68" r="3.6" fill="#0B0F0E"/><circle cx="-15" cy="-56" r="3.6" fill="#0B0F0E"/><circle cx="0" cy="-56" r="3.6" fill="#0B0F0E"/><circle cx="15" cy="-56" r="3.6" fill="#0B0F0E"/><circle cx="-8" cy="-44" r="3.6" fill="#0B0F0E"/><circle cx="8" cy="-44" r="3.6" fill="#0B0F0E"/><circle cx="0" cy="-33" r="3.6" fill="#0B0F0E"/></g></g><circle cx="56" cy="28" r="6.5" fill="none" stroke="#0B0F0E" stroke-width="5.5"/></svg><svg width="28" height="28" viewBox="0 0 112 112"><rect width="112" height="112" rx="30" fill="#C6FF3D"/><g transform="translate(56,74) scale(0.62)"><g transform="rotate(-34)"><path d="M0 -80 C14 -80, 24 -68, 24 -54 C24 -40, 14 -30, 0 -24 C-14 -30, -24 -40, -24 -54 C-24 -68, -14 -80, 0 -80 Z" fill="none" stroke="#0B0F0E" stroke-width="8.870967741935484" stroke-linejoin="round"/><rect x="-6.5" y="-30" width="13" height="52" rx="6.5" fill="none" stroke="#0B0F0E" stroke-width="8.870967741935484"/><circle cx="-8" cy="-68" r="3.6" fill="#0B0F0E"/><circle cx="8" cy="-68" r="3.6" fill="#0B0F0E"/><circle cx="-15" cy="-56" r="3.6" fill="#0B0F0E"/><circle cx="0" cy="-56" r="3.6" fill="#0B0F0E"/><circle cx="15" cy="-56" r="3.6" fill="#0B0F0E"/><circle cx="-8" cy="-44" r="3.6" fill="#0B0F0E"/><circle cx="8" cy="-44" r="3.6" fill="#0B0F0E"/><circle cx="0" cy="-33" r="3.6" fill="#0B0F0E"/></g><g transform="rotate(34)"><path d="M0 -80 C14 -80, 24 -68, 24 -54 C24 -40, 14 -30, 0 -24 C-14 -30, -24 -40, -24 -54 C-24 -68, -14 -80, 0 -80 Z" fill="none" stroke="#0B0F0E" stroke-width="8.870967741935484" stroke-linejoin="round"/><rect x="-6.5" y="-30" width="13" height="52" rx="6.5" fill="none" stroke="#0B0F0E" stroke-width="8.870967741935484"/><circle cx="-8" cy="-68" r="3.6" fill="#0B0F0E"/><circle cx="8" cy="-68" r="3.6" fill="#0B0F0E"/><circle cx="-15" cy="-56" r="3.6" fill="#0B0F0E"/><circle cx="0" cy="-56" r="3.6" fill="#0B0F0E"/><circle cx="15" cy="-56" r="3.6" fill="#0B0F0E"/><circle cx="-8" cy="-44" r="3.6" fill="#0B0F0E"/><circle cx="8" cy="-44" r="3.6" fill="#0B0F0E"/><circle cx="0" cy="-33" r="3.6" fill="#0B0F0E"/></g></g><circle cx="56" cy="28" r="6.5" fill="none" stroke="#0B0F0E" stroke-width="5.5"/></svg></div>
+  <div class="piccoli"><span>icona</span><svg width="72" height="72" viewBox="0 0 112 112"><rect width="112" height="112" rx="30" fill="#C6FF3D"/><g transform="translate(56.00,71.04) scale(0.776) rotate(-20 0.0 -31.0)"><path d="M0 -80 C17 -80, 26 -68, 26 -54 C26 -40, 17 -28, 8 -20 L-8 -20 C-17 -28, -26 -40, -26 -54 C-26 -68, -17 -80, 0 -80 Z" fill="none" stroke="#0B0F0E" stroke-width="7.092105263157895" stroke-linejoin="round"/><rect x="-8" y="-24" width="16" height="42" rx="8" fill="none" stroke="#0B0F0E" stroke-width="7.092105263157895"/><circle cx="-8" cy="-68" r="3.4" fill="#0B0F0E"/><circle cx="8" cy="-68" r="3.4" fill="#0B0F0E"/><circle cx="-18" cy="-57" r="3.4" fill="#0B0F0E"/><circle cx="-6" cy="-57" r="3.4" fill="#0B0F0E"/><circle cx="6" cy="-57" r="3.4" fill="#0B0F0E"/><circle cx="18" cy="-57" r="3.4" fill="#0B0F0E"/><circle cx="-12" cy="-46" r="3.4" fill="#0B0F0E"/><circle cx="0" cy="-46" r="3.4" fill="#0B0F0E"/><circle cx="12" cy="-46" r="3.4" fill="#0B0F0E"/><circle cx="-6" cy="-35" r="3.4" fill="#0B0F0E"/><circle cx="6" cy="-35" r="3.4" fill="#0B0F0E"/></g><path d="M15 94 C28 85, 37 103, 52 94 S76 85, 97 94" stroke="#0B0F0E" stroke-width="5" stroke-linecap="round" fill="none"/></svg><svg width="44" height="44" viewBox="0 0 112 112"><rect width="112" height="112" rx="30" fill="#C6FF3D"/><g transform="translate(56.00,71.04) scale(0.776) rotate(-20 0.0 -31.0)"><path d="M0 -80 C17 -80, 26 -68, 26 -54 C26 -40, 17 -28, 8 -20 L-8 -20 C-17 -28, -26 -40, -26 -54 C-26 -68, -17 -80, 0 -80 Z" fill="none" stroke="#0B0F0E" stroke-width="7.092105263157895" stroke-linejoin="round"/><rect x="-8" y="-24" width="16" height="42" rx="8" fill="none" stroke="#0B0F0E" stroke-width="7.092105263157895"/><circle cx="-8" cy="-68" r="3.4" fill="#0B0F0E"/><circle cx="8" cy="-68" r="3.4" fill="#0B0F0E"/><circle cx="-18" cy="-57" r="3.4" fill="#0B0F0E"/><circle cx="-6" cy="-57" r="3.4" fill="#0B0F0E"/><circle cx="6" cy="-57" r="3.4" fill="#0B0F0E"/><circle cx="18" cy="-57" r="3.4" fill="#0B0F0E"/><circle cx="-12" cy="-46" r="3.4" fill="#0B0F0E"/><circle cx="0" cy="-46" r="3.4" fill="#0B0F0E"/><circle cx="12" cy="-46" r="3.4" fill="#0B0F0E"/><circle cx="-6" cy="-35" r="3.4" fill="#0B0F0E"/><circle cx="6" cy="-35" r="3.4" fill="#0B0F0E"/></g><path d="M15 94 C28 85, 37 103, 52 94 S76 85, 97 94" stroke="#0B0F0E" stroke-width="5" stroke-linecap="round" fill="none"/></svg><svg width="28" height="28" viewBox="0 0 112 112"><rect width="112" height="112" rx="30" fill="#C6FF3D"/><g transform="translate(56.00,71.04) scale(0.776) rotate(-20 0.0 -31.0)"><path d="M0 -80 C17 -80, 26 -68, 26 -54 C26 -40, 17 -28, 8 -20 L-8 -20 C-17 -28, -26 -40, -26 -54 C-26 -68, -17 -80, 0 -80 Z" fill="none" stroke="#0B0F0E" stroke-width="7.092105263157895" stroke-linejoin="round"/><rect x="-8" y="-24" width="16" height="42" rx="8" fill="none" stroke="#0B0F0E" stroke-width="7.092105263157895"/><circle cx="-8" cy="-68" r="3.4" fill="#0B0F0E"/><circle cx="8" cy="-68" r="3.4" fill="#0B0F0E"/><circle cx="-18" cy="-57" r="3.4" fill="#0B0F0E"/><circle cx="-6" cy="-57" r="3.4" fill="#0B0F0E"/><circle cx="6" cy="-57" r="3.4" fill="#0B0F0E"/><circle cx="18" cy="-57" r="3.4" fill="#0B0F0E"/><circle cx="-12" cy="-46" r="3.4" fill="#0B0F0E"/><circle cx="0" cy="-46" r="3.4" fill="#0B0F0E"/><circle cx="12" cy="-46" r="3.4" fill="#0B0F0E"/><circle cx="-6" cy="-35" r="3.4" fill="#0B0F0E"/><circle cx="6" cy="-35" r="3.4" fill="#0B0F0E"/></g><path d="M15 94 C28 85, 37 103, 52 94 S76 85, 97 94" stroke="#0B0F0E" stroke-width="5" stroke-linecap="round" fill="none"/></svg></div>
+</div>
+
+<div class="blocco">
+  <div class="testa">
+    <span class="n">C</span>
+    <h2>Dritta, senza onda</h2>
+    <p>Solo la racchetta, piu' grande. Utile come icona alle misure piccole, dove l'onda si riduce a un trattino.</p>
+  </div>
+  <div class="griglia">
+    <div class="cella scuro"><svg width="440" height="150" viewBox="0 0 440 150" fill="none">
+        <g transform="translate(14,14) scale(1.02)"><rect width="112" height="112" rx="30" fill="#C6FF3D"/><g transform="translate(56.00,83.20) scale(0.878)"><path d="M0 -80 C17 -80, 26 -68, 26 -54 C26 -40, 17 -28, 8 -20 L-8 -20 C-17 -28, -26 -40, -26 -54 C-26 -68, -17 -80, 0 -80 Z" fill="none" stroke="#0B0F0E" stroke-width="6.267441860465117" stroke-linejoin="round"/><rect x="-8" y="-24" width="16" height="42" rx="8" fill="none" stroke="#0B0F0E" stroke-width="6.267441860465117"/><circle cx="-8" cy="-68" r="3.4" fill="#0B0F0E"/><circle cx="8" cy="-68" r="3.4" fill="#0B0F0E"/><circle cx="-18" cy="-57" r="3.4" fill="#0B0F0E"/><circle cx="-6" cy="-57" r="3.4" fill="#0B0F0E"/><circle cx="6" cy="-57" r="3.4" fill="#0B0F0E"/><circle cx="18" cy="-57" r="3.4" fill="#0B0F0E"/><circle cx="-12" cy="-46" r="3.4" fill="#0B0F0E"/><circle cx="0" cy="-46" r="3.4" fill="#0B0F0E"/><circle cx="12" cy="-46" r="3.4" fill="#0B0F0E"/><circle cx="-6" cy="-35" r="3.4" fill="#0B0F0E"/><circle cx="6" cy="-35" r="3.4" fill="#0B0F0E"/></g></g>
+        <text x="146" y="68" font-family="Space Grotesk,sans-serif" font-size="44" font-weight="700"
+              letter-spacing="-1.5" fill="#fff">PADEL</text>
+        <text x="148" y="100" font-family="Space Grotesk,sans-serif" font-size="24" font-weight="600"
+              letter-spacing="8.5" fill="#C6FF3D">CILENTO</text>
+      </svg></div>
+    <div class="cella chiaro"><svg width="440" height="150" viewBox="0 0 440 150" fill="none">
+        <g transform="translate(14,14) scale(1.02)"><rect width="112" height="112" rx="30" fill="#0B0F0E"/><g transform="translate(56.00,83.20) scale(0.878)"><path d="M0 -80 C17 -80, 26 -68, 26 -54 C26 -40, 17 -28, 8 -20 L-8 -20 C-17 -28, -26 -40, -26 -54 C-26 -68, -17 -80, 0 -80 Z" fill="none" stroke="#C6FF3D" stroke-width="6.267441860465117" stroke-linejoin="round"/><rect x="-8" y="-24" width="16" height="42" rx="8" fill="none" stroke="#C6FF3D" stroke-width="6.267441860465117"/><circle cx="-8" cy="-68" r="3.4" fill="#C6FF3D"/><circle cx="8" cy="-68" r="3.4" fill="#C6FF3D"/><circle cx="-18" cy="-57" r="3.4" fill="#C6FF3D"/><circle cx="-6" cy="-57" r="3.4" fill="#C6FF3D"/><circle cx="6" cy="-57" r="3.4" fill="#C6FF3D"/><circle cx="18" cy="-57" r="3.4" fill="#C6FF3D"/><circle cx="-12" cy="-46" r="3.4" fill="#C6FF3D"/><circle cx="0" cy="-46" r="3.4" fill="#C6FF3D"/><circle cx="12" cy="-46" r="3.4" fill="#C6FF3D"/><circle cx="-6" cy="-35" r="3.4" fill="#C6FF3D"/><circle cx="6" cy="-35" r="3.4" fill="#C6FF3D"/></g></g>
+        <text x="146" y="68" font-family="Space Grotesk,sans-serif" font-size="44" font-weight="700"
+              letter-spacing="-1.5" fill="#0B0F0E">PADEL</text>
+        <text x="148" y="100" font-family="Space Grotesk,sans-serif" font-size="24" font-weight="600"
+              letter-spacing="8.5" fill="#3D7A00">CILENTO</text>
+      </svg></div>
+  </div>
+  <div class="piccoli"><span>icona</span><svg width="72" height="72" viewBox="0 0 112 112"><rect width="112" height="112" rx="30" fill="#C6FF3D"/><g transform="translate(56.00,83.20) scale(0.878)"><path d="M0 -80 C17 -80, 26 -68, 26 -54 C26 -40, 17 -28, 8 -20 L-8 -20 C-17 -28, -26 -40, -26 -54 C-26 -68, -17 -80, 0 -80 Z" fill="none" stroke="#0B0F0E" stroke-width="6.267441860465117" stroke-linejoin="round"/><rect x="-8" y="-24" width="16" height="42" rx="8" fill="none" stroke="#0B0F0E" stroke-width="6.267441860465117"/><circle cx="-8" cy="-68" r="3.4" fill="#0B0F0E"/><circle cx="8" cy="-68" r="3.4" fill="#0B0F0E"/><circle cx="-18" cy="-57" r="3.4" fill="#0B0F0E"/><circle cx="-6" cy="-57" r="3.4" fill="#0B0F0E"/><circle cx="6" cy="-57" r="3.4" fill="#0B0F0E"/><circle cx="18" cy="-57" r="3.4" fill="#0B0F0E"/><circle cx="-12" cy="-46" r="3.4" fill="#0B0F0E"/><circle cx="0" cy="-46" r="3.4" fill="#0B0F0E"/><circle cx="12" cy="-46" r="3.4" fill="#0B0F0E"/><circle cx="-6" cy="-35" r="3.4" fill="#0B0F0E"/><circle cx="6" cy="-35" r="3.4" fill="#0B0F0E"/></g></svg><svg width="44" height="44" viewBox="0 0 112 112"><rect width="112" height="112" rx="30" fill="#C6FF3D"/><g transform="translate(56.00,83.20) scale(0.878)"><path d="M0 -80 C17 -80, 26 -68, 26 -54 C26 -40, 17 -28, 8 -20 L-8 -20 C-17 -28, -26 -40, -26 -54 C-26 -68, -17 -80, 0 -80 Z" fill="none" stroke="#0B0F0E" stroke-width="6.267441860465117" stroke-linejoin="round"/><rect x="-8" y="-24" width="16" height="42" rx="8" fill="none" stroke="#0B0F0E" stroke-width="6.267441860465117"/><circle cx="-8" cy="-68" r="3.4" fill="#0B0F0E"/><circle cx="8" cy="-68" r="3.4" fill="#0B0F0E"/><circle cx="-18" cy="-57" r="3.4" fill="#0B0F0E"/><circle cx="-6" cy="-57" r="3.4" fill="#0B0F0E"/><circle cx="6" cy="-57" r="3.4" fill="#0B0F0E"/><circle cx="18" cy="-57" r="3.4" fill="#0B0F0E"/><circle cx="-12" cy="-46" r="3.4" fill="#0B0F0E"/><circle cx="0" cy="-46" r="3.4" fill="#0B0F0E"/><circle cx="12" cy="-46" r="3.4" fill="#0B0F0E"/><circle cx="-6" cy="-35" r="3.4" fill="#0B0F0E"/><circle cx="6" cy="-35" r="3.4" fill="#0B0F0E"/></g></svg><svg width="28" height="28" viewBox="0 0 112 112"><rect width="112" height="112" rx="30" fill="#C6FF3D"/><g transform="translate(56.00,83.20) scale(0.878)"><path d="M0 -80 C17 -80, 26 -68, 26 -54 C26 -40, 17 -28, 8 -20 L-8 -20 C-17 -28, -26 -40, -26 -54 C-26 -68, -17 -80, 0 -80 Z" fill="none" stroke="#0B0F0E" stroke-width="6.267441860465117" stroke-linejoin="round"/><rect x="-8" y="-24" width="16" height="42" rx="8" fill="none" stroke="#0B0F0E" stroke-width="6.267441860465117"/><circle cx="-8" cy="-68" r="3.4" fill="#0B0F0E"/><circle cx="8" cy="-68" r="3.4" fill="#0B0F0E"/><circle cx="-18" cy="-57" r="3.4" fill="#0B0F0E"/><circle cx="-6" cy="-57" r="3.4" fill="#0B0F0E"/><circle cx="6" cy="-57" r="3.4" fill="#0B0F0E"/><circle cx="18" cy="-57" r="3.4" fill="#0B0F0E"/><circle cx="-12" cy="-46" r="3.4" fill="#0B0F0E"/><circle cx="0" cy="-46" r="3.4" fill="#0B0F0E"/><circle cx="12" cy="-46" r="3.4" fill="#0B0F0E"/><circle cx="-6" cy="-35" r="3.4" fill="#0B0F0E"/><circle cx="6" cy="-35" r="3.4" fill="#0B0F0E"/></g></svg></div>
 </div>
 
